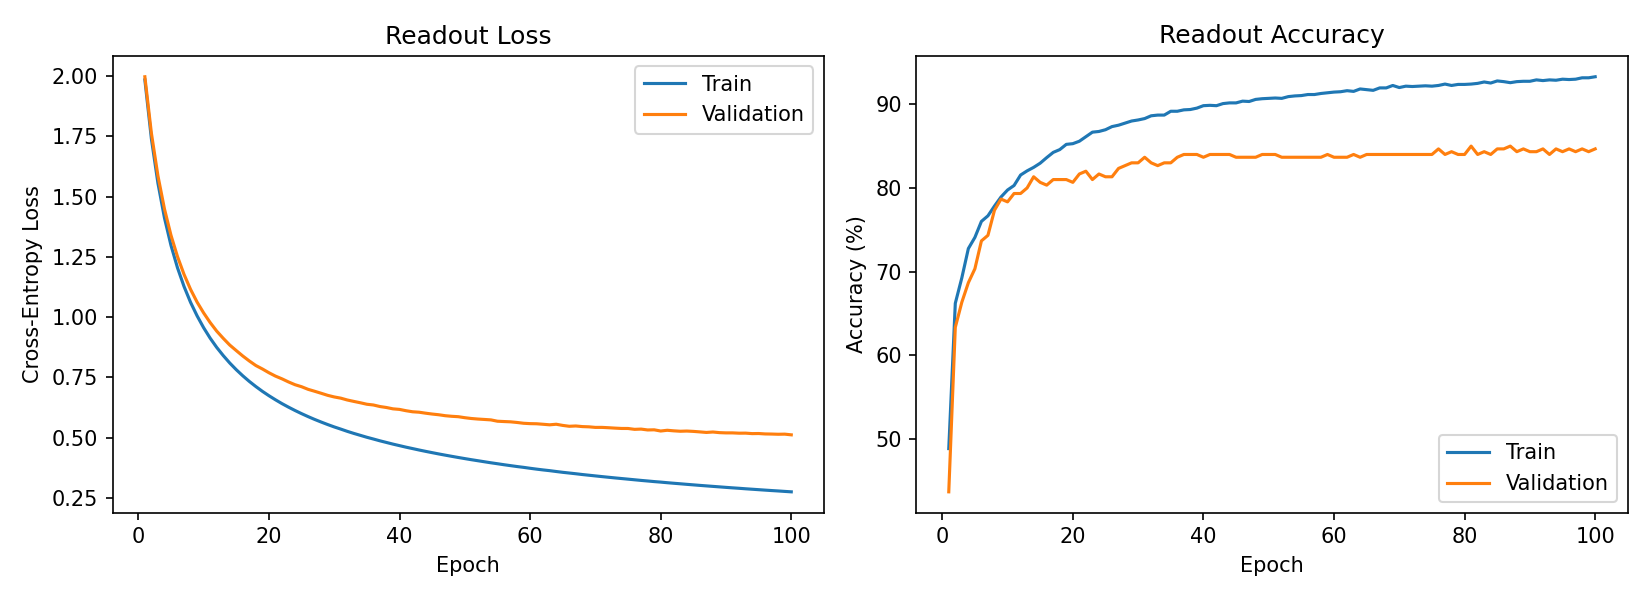
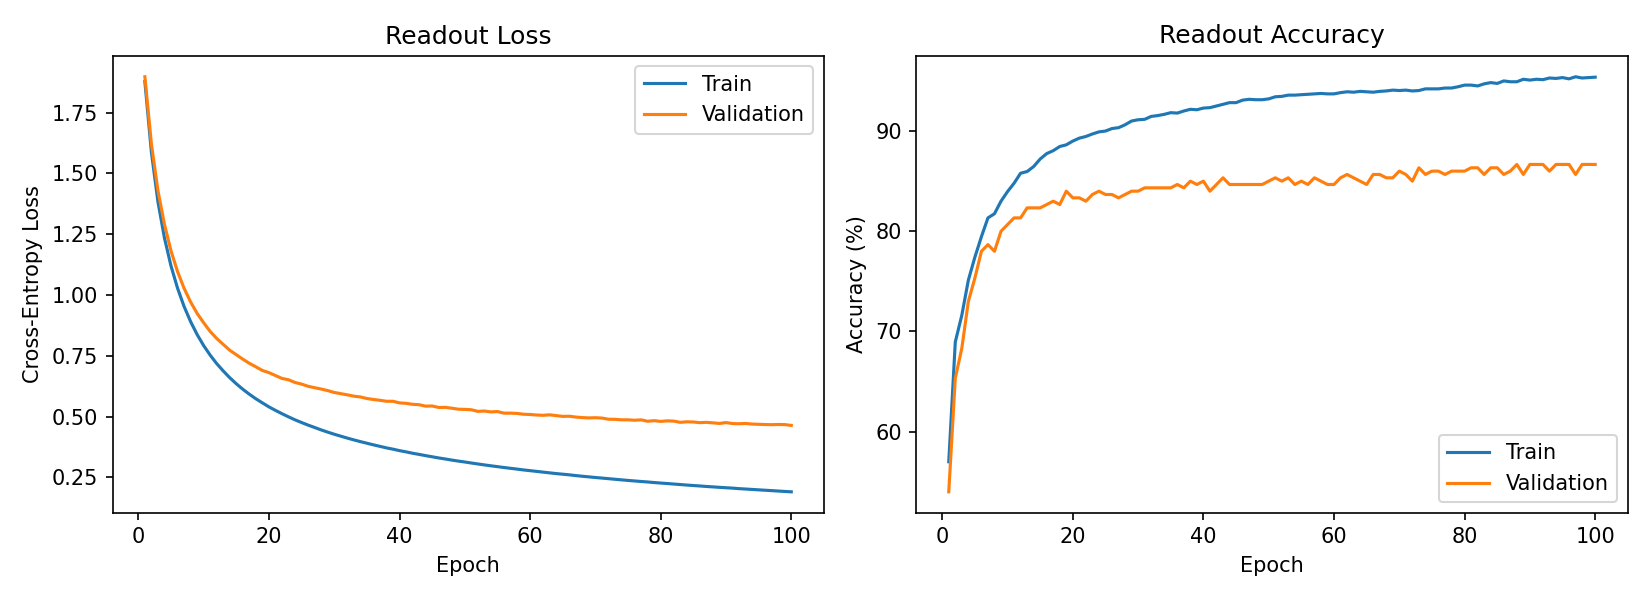
Tune Mel channels to improve speech feature representation

diff --git a/src/readout.py b/src/readout.py
@@ -20,7 +20,7 @@ from preprocessing import signal_to_pulses # F2의 4비트 펄스 생성
 from rram_model import generate_reservoir_states # F3의 RRAM Reservoir State 생성
 
 
-INPUT_SIZE = 256 # 한 WAV에서 생성되는 Reservoir State의 차원 수
+INPUT_SIZE = 384 # 한 WAV에서 생성되는 Reservoir State의 차원 수
 NUM_CLASSES = 10 # 숫자 0~9에 해당하는 출력 클래스 수
 EPOCHS = 300 # 전체 Train 데이터를 반복 학습하는 횟수
 BATCH_SIZE = 64 # 한 번에 학습할 음성 데이터 수
